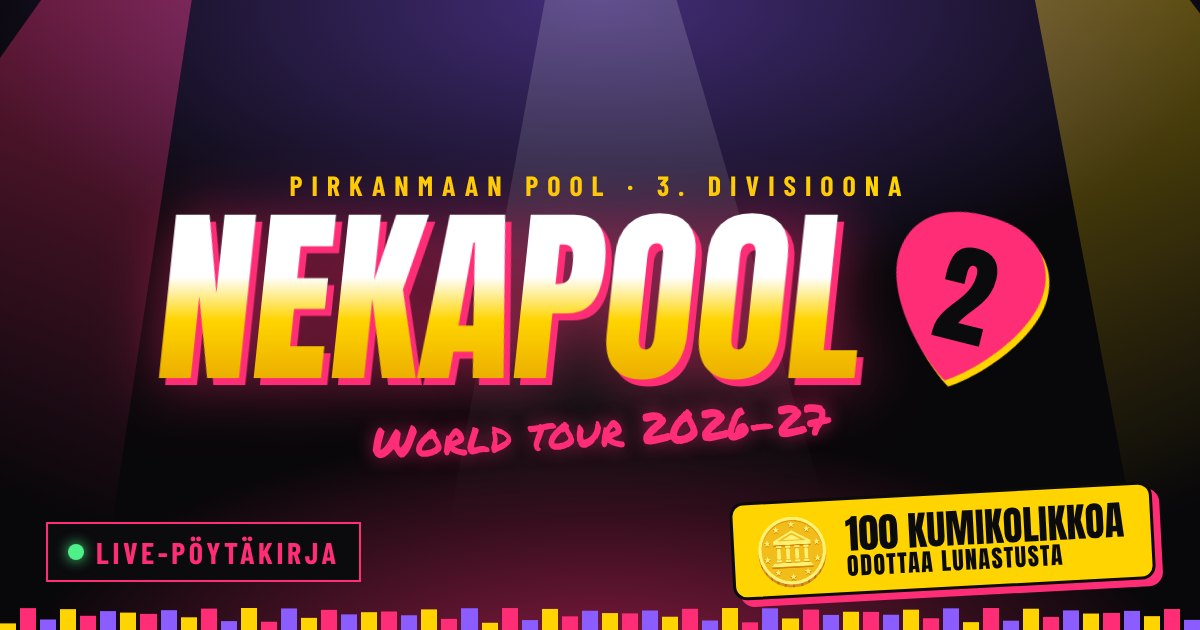
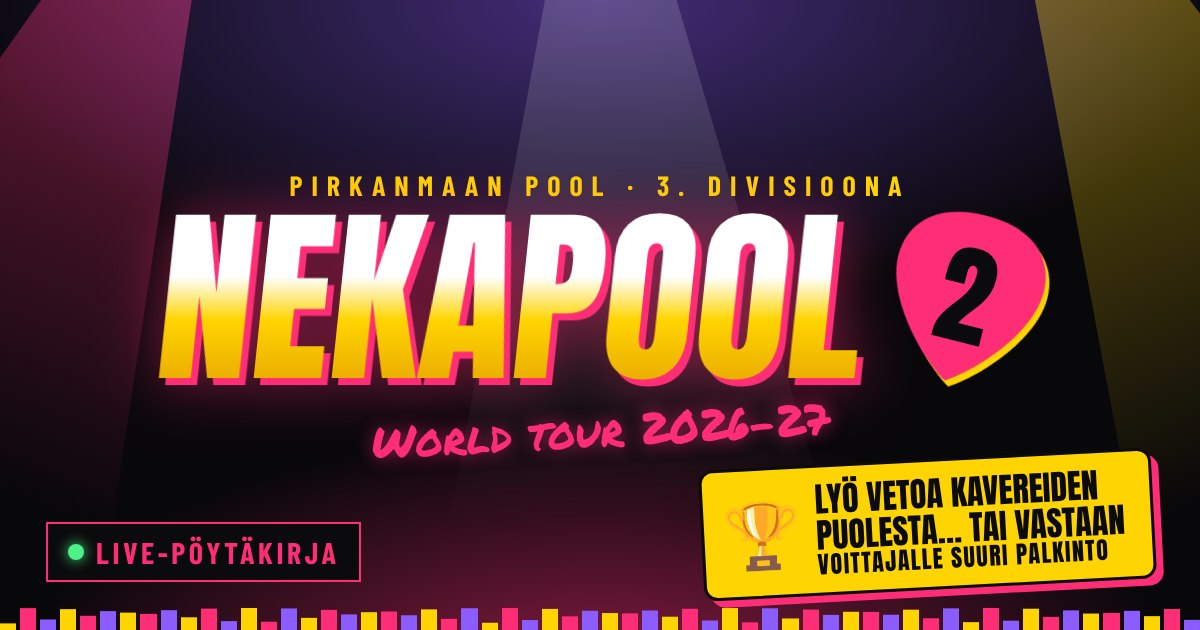
Mainosteksti esikatseluun
Claude-Session: https://claude.ai/code/session_011js1FUc69DctTnj5tpAo74

Changed region(s): [[0.5858, 0.6937, 0.9867, 0.9651]]

diff --git a/index.html b/index.html
@@ -9,7 +9,7 @@
   <meta property="og:type" content="website">
   <meta property="og:site_name" content="Nekapool 2">
   <meta property="og:title" content="🎱 Nekapool 2 – World tour 2026–27">
-  <meta property="og:description" content="Live-pöytäkirja, sarjataulukko, salaiset lempinimet ja vetokassa. Lunasta 100 kumikolikkoasi omalla koodilla!">
+  <meta property="og:description" content="Lyö vetoa joukkuekavereittesi puolesta… tai vastaan. 100 kumikolikkoa odottaa lunastusta, ja voittajalle on luvassa suuri palkinto. 🏆">
   <meta property="og:url" content="https://samppafin.github.io/Nekapool-2/">
   <meta property="og:image" content="https://samppafin.github.io/Nekapool-2/img/nekapool2-og.jpg">
   <meta property="og:image:width" content="1200">
